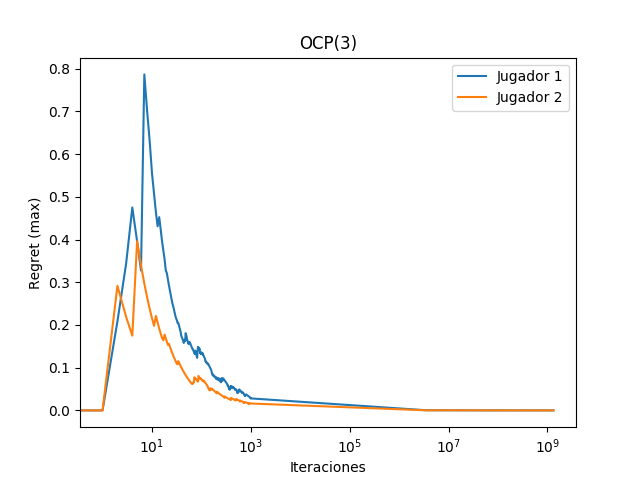
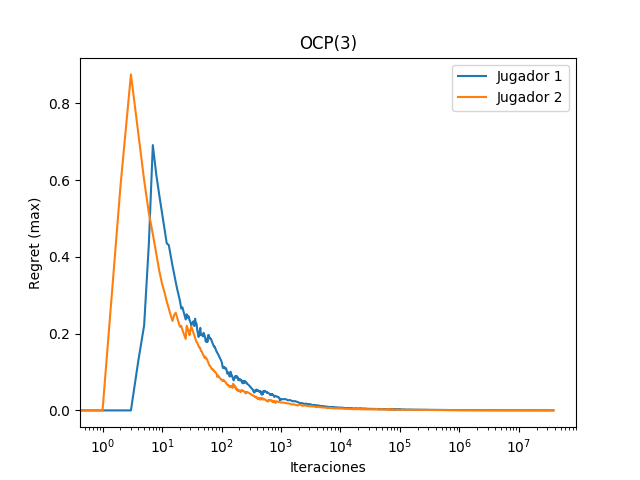
Testing graphic OCP(3)

diff --git a/src/cfr.cpp b/src/cfr.cpp
@@ -9,7 +9,7 @@
 #include "games/Dudo.hpp"
 #include "games/Domino.hpp"
 using namespace std;
-int total_seconds = 36000;
+int total_seconds = 360;
 #define EPS 1e-5
 
 void cfr_kuhn(
